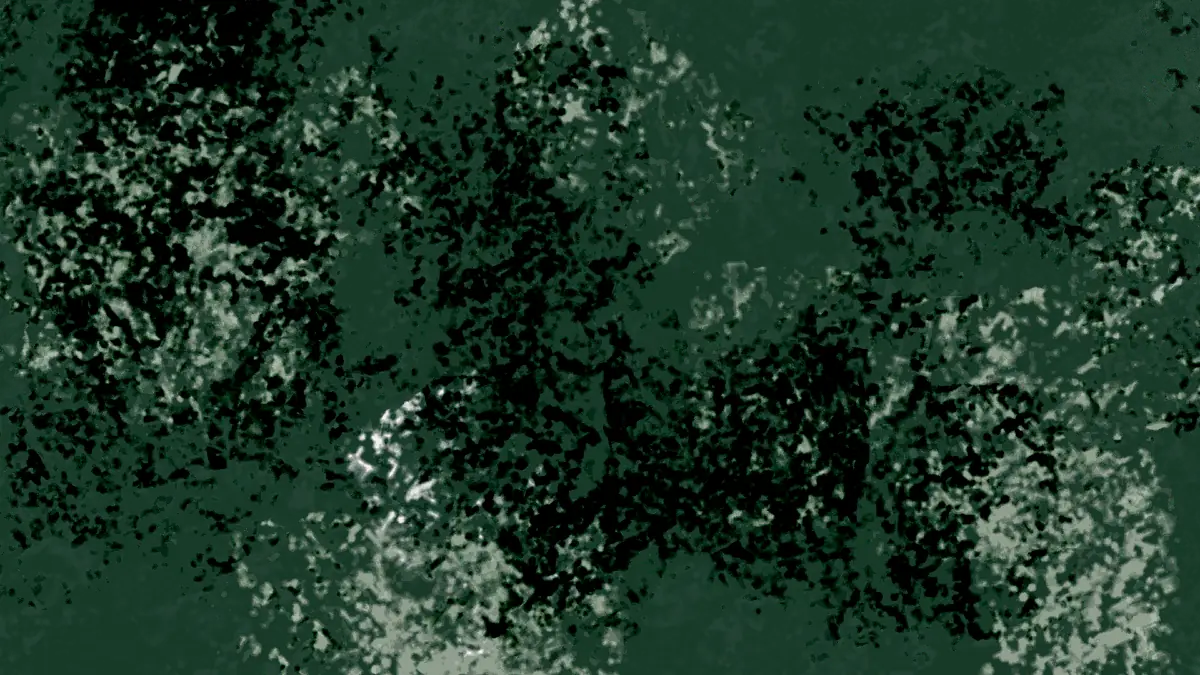
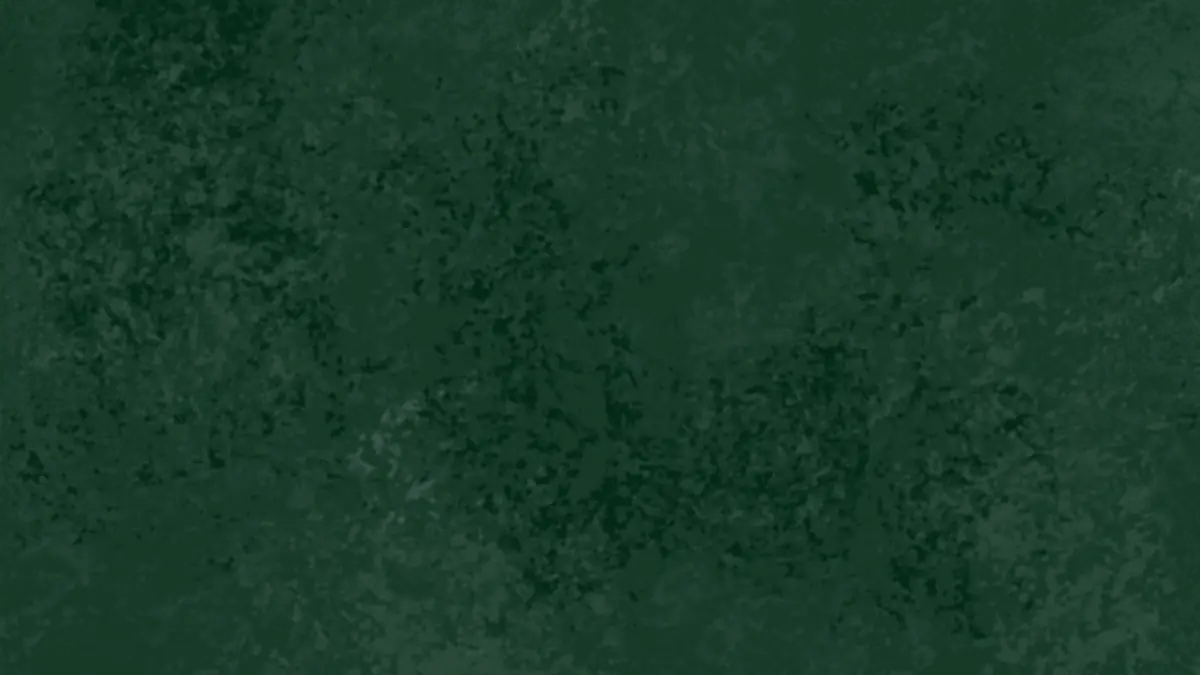
fix(animal-gambling): saca las manchas negras del fieltro -la amplificacion x20 recortaba color
Reportado: "no se ve bien la animacion. aparecen manchas blancas y negras".

Medi antes de tocar nada, como toda esta serie de arreglos. Conte pixeles en
negro puro (menor a 5 en los tres canales) y blanco puro (mayor a 250) en los
archivos que ya estaban commiteados:

  felt-1.webp  10,84% de los pixeles en negro puro
  felt-2.webp   7,25% en negro puro, 0,04% en blanco puro
  felt-3.webp  13,34% en negro puro

Eso es la mancha: la amplificacion x20 del commit anterior (`base +
(fotograma - base) * 20`) empuja cualquier pixel donde la diferencia real ya
apuntaba para abajo por debajo de 0, y el recorte a 0-255 lo deja en negro
puro solido. El paño es un verde casi negro -la mayoria de sus pixeles ya
estan cerca del piso- asi que con esta textura especifica el margen antes de
recortar es mucho mas chico de lo que parecia en las capturas de prueba
anteriores, que no cubrieron el area completa.

Se barrio la amplificacion entera -x2 a x20- midiendo el recorte real, no a
ojo:

  x2, x3   0,00% de recorte en los tres cuadros
  x4       0,54% a 1,34% ya recorta
  x6       2,4% a 4,9%
  x10      7,5% a 13,5%
  x20      15,5% a 23,7% -lo que se habia commiteado-

x3 es el techo real: el ultimo valor entero sin ningun pixel recortado.
Verificado en el archivo WebP FINAL, despues de la compresion -no en el
calculo antes de codificar-: 0,000% en negro o blanco puro en los cuatro
cuadros.

A esta intensidad la diferencia compuesta en la pagina real, con dos capturas
[…]

diff --git a/public/projects/AnimalGambling-Vite/src/style.css b/public/projects/AnimalGambling-Vite/src/style.css
@@ -2698,8 +2698,8 @@ body {
   /* ►► El paño VIVE. Cuatro fotos, no una. ◄◄
    *
    * Estaba quemado en un solo archivo (`board3.png`, 2,6MB) y ahora son
-   * cuatro cuadros de una animación real, pasados a WebP: 504KB los cuatro
-   * juntos, menos de un cuarto de la imagen única que reemplazan. El origen
+   * cuatro cuadros de una animación real, pasados a WebP: 228KB los cuatro
+   * juntos, menos de un décimo de la imagen única que reemplazan. El origen
    * era una exportación de diez fotogramas a 1920×1080 sin comprimir —15MB—
    * pero comparados byte a byte sólo hay CUATRO dibujos distintos: los
    * fotogramas 1/2, 4/5 y 7/8 son copias exactas de sus vecinos. Los
@@ -2712,10 +2712,23 @@ body {
    * La diferencia real entre un cuadro y el siguiente, medida en la MESA
    * jugando —no en el archivo suelto—, daba una media de 0,4 sobre 255: por
    * debajo de lo que un ojo puede notar. `felt-1/2/3.webp` reescriben esa
-   * misma diferencia real, canal por canal, multiplicada por 20 y recortada
+   * misma diferencia real, canal por canal, multiplicada por 3 y recortada
    * a 0-255 — no se dibujó nada que no estuviera en las fotos originales,
    * se le subió el volumen a lo que ya había. `felt-0.webp` es la base y no
    * se toca: no hay diferencia que amplificar contra sí misma.
+   *
+   * ►► Por qué 3 y no más. ◄◄
+   *
+   * El primer intento uso 20, y con la textura tan oscura como es ésta —el
+   * paño es un verde casi negro— cualquier píxel donde la diferencia real ya
+   * apuntaba para abajo terminaba OFF de escala: recortado a negro puro. A
+   * ×20 eso era entre el 7% y el 13% de los píxeles de cada cuadro, y a esa
+   * densidad deja de leerse como grano y pasa a leerse como manchas —el bug
+   * que se reportó—. Se barrió la amplificación entera antes de elegir un
+   * número: a partir de ×4 ya aparece recorte medible, así que ×3 es el
+   * techo real, no un número redondo. Verificado en el archivo WebP
+   * final —después de la compresión, no antes—: 0,000% de píxeles en negro
+   * o blanco puro en los tres cuadros.
    *
    * El cambio de cuadro es un salto, no un fundido: `background-image` es
    * de las propiedades que CSS no sabe interpolar, así que animarla entre
